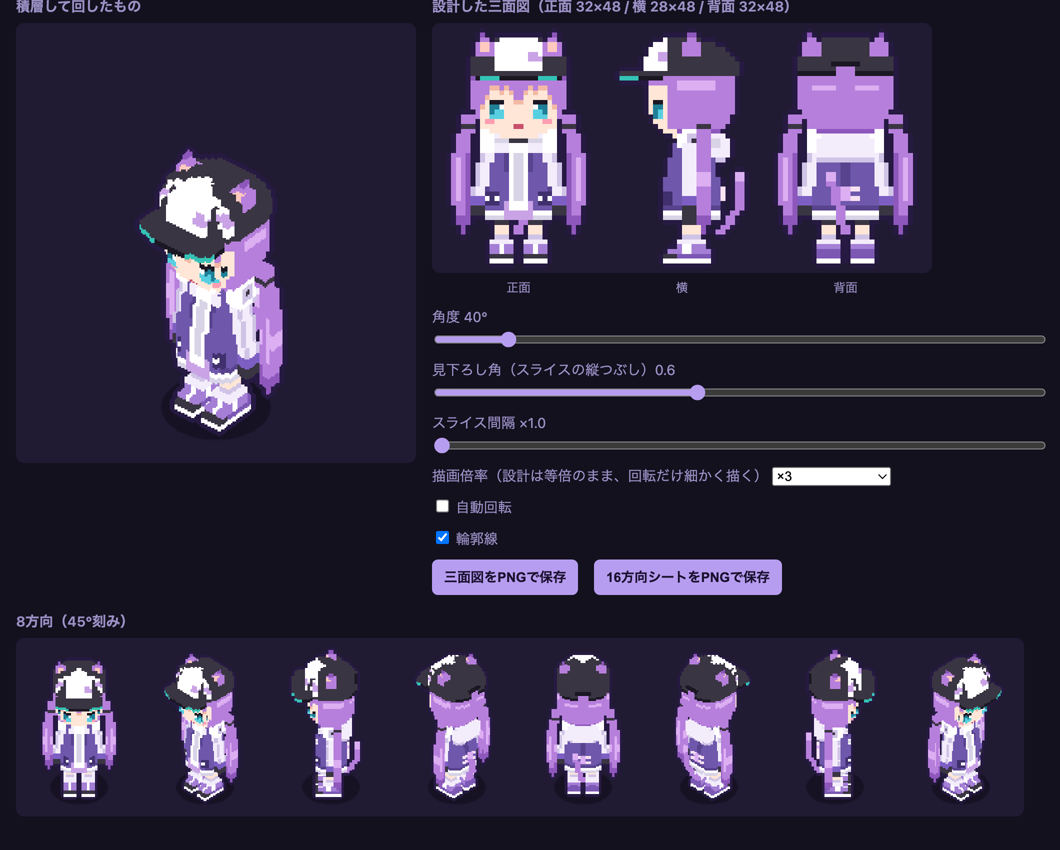
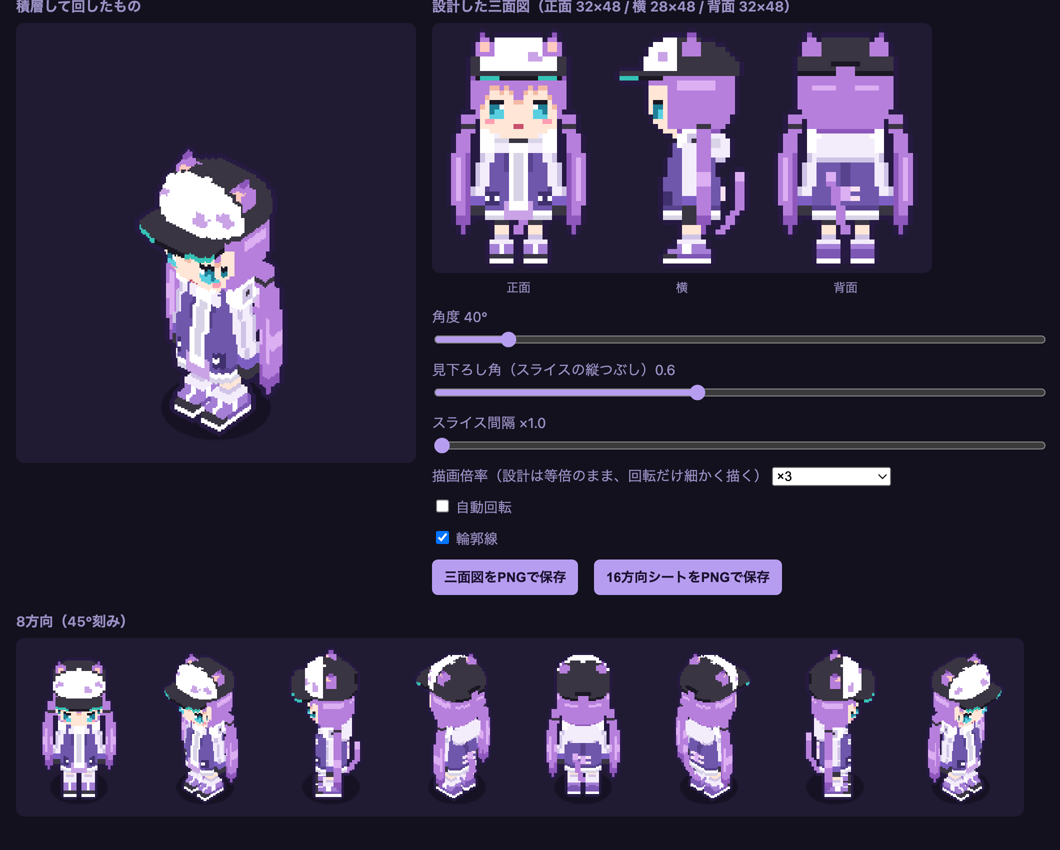
キャップの白パネルを正面で左右3px、横で2px広げる
Claude-Session: https://claude.ai/code/session_011HoqDHgmM7SEYGM4k87Uy9

diff --git a/design.js b/design.js
@@ -110,9 +110,9 @@ function mirror(p) { parts.push({name:p.name.replace('左','右'), n:p.n, depth:
   const ys = [[6, 25], [6, 25], [6, 25], [6, 24], [7, 23], [7, 22], [8, 20], [10, 17]];   // 横の前端・後端
   const p = part('キャップ'); p.depth = 16;
   prof(p, 39, 46, z => { const [a, b] = ys[z - 39]; return {hw: hw[z - 39], cy: (a + b) / 2, hd: (b - a + 1) / 2 - 0.01, c: P.K1}; });
-  box(p.front, 11, 20, 40, 45, P.W1); box(p.front, 12, 19, 46, 46, P.W1);               // 白い前パネル
+  box(p.front, 8, 23, 40, 45, P.W1); box(p.front, 9, 22, 46, 46, P.W1);               // 白い前パネル
   box(p.front, 18, 19, 42, 43, P.L1); px(p.front, 20, 42, P.L1);                        // 花のマーク
-  for (let z = 40; z <= 46; z++) for (let y = 0; y <= 10; y++) px(p.side, y, z, P.W1);
+  for (let z = 40; z <= 46; z++) for (let y = 0; y <= 12; y++) px(p.side, y, z, P.W1);
   box(p.side, 9, 10, 42, 43, P.L1);
   box(p.back, 0, 31, 39, 39, P.K2); box(p.back, 14, 17, 39, 41, P.H2); box(p.back, 13, 18, 41, 41, P.K2); // 後ろの穴とベルト
   const b = part('つば');                                           // 前へ長く、平たく
